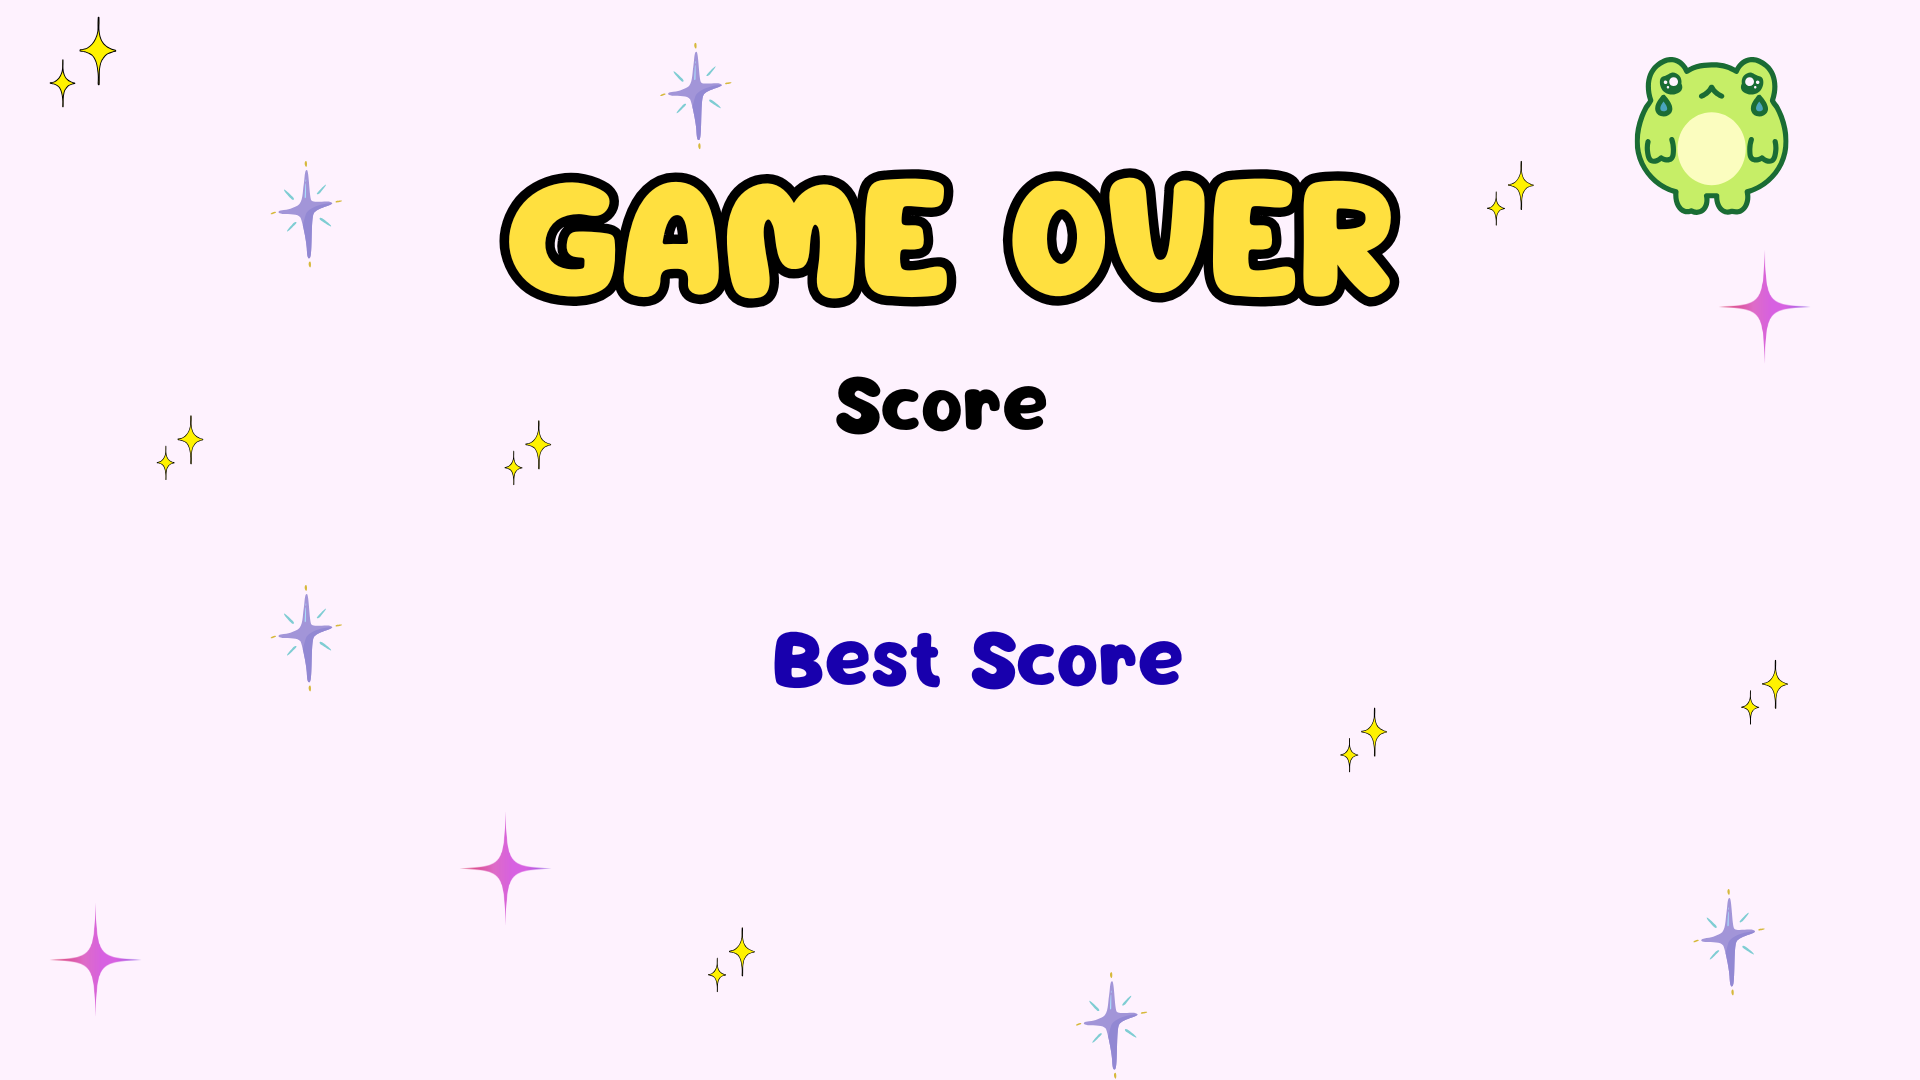
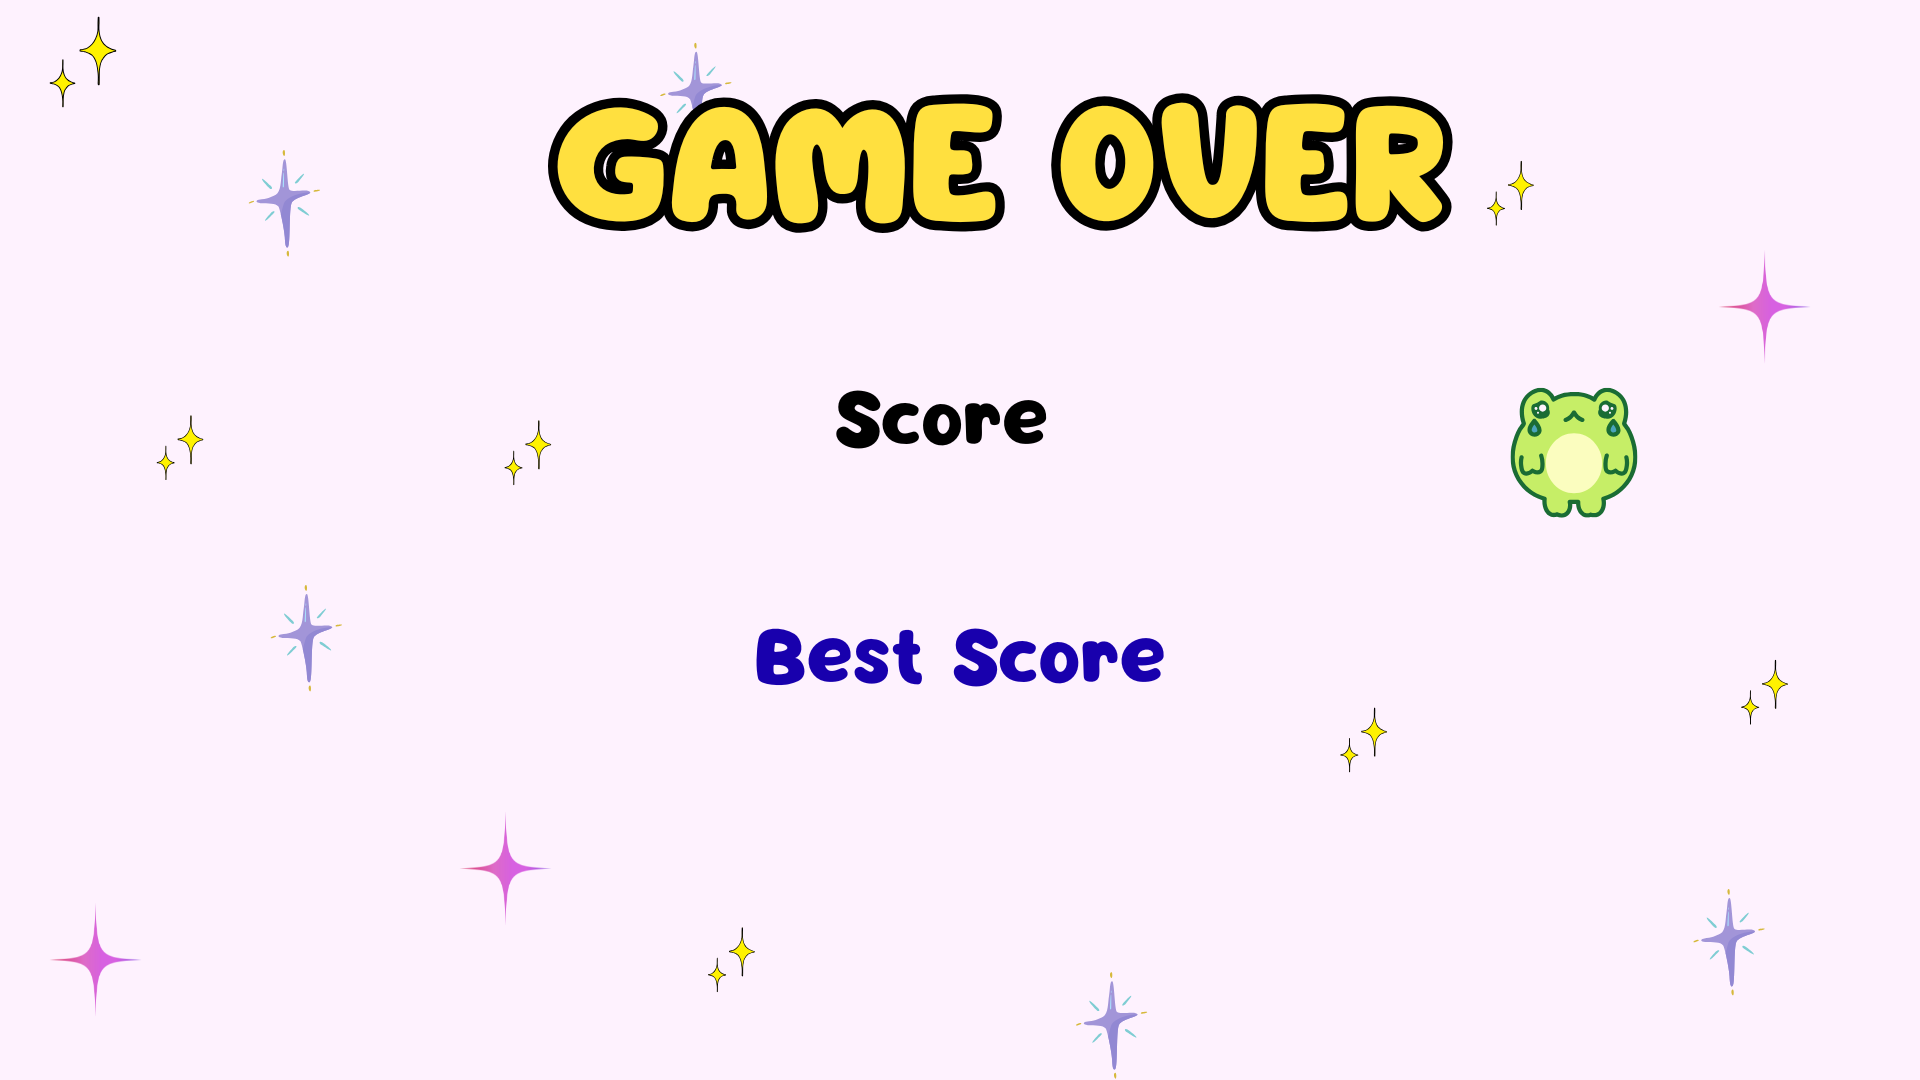
Fix hiển thị sao, chỉnh lại best score

diff --git a/src/screens/gameplay_screen.py b/src/screens/gameplay_screen.py
@@ -307,7 +307,7 @@ class GameplayScreen(BaseScreen):
             assets['nut_next'] = pygame.image.load(os.path.join(ASSETS_IMG_DIR, 'nut_next.png')).convert_alpha()
             assets['nut_next'] = pygame.transform.scale(assets['nut_next'], self.NEXT_BUTTON_SIZE)
             
-            star_img = pygame.image.load(os.path.join(ASSETS_IMG_DIR, 'sao.png')).convert_alpha() 
+            star_img = pygame.image.load(os.path.join(ASSETS_IMG_DIR, 'sao_ketthuc.png')).convert_alpha() 
             assets['sao_large'] = pygame.transform.scale(star_img, (self.STAR_SIZE, self.STAR_SIZE))
             assets['sao_result'] = pygame.transform.scale(star_img, (80, 80))
 
@@ -372,6 +372,7 @@ class GameplayScreen(BaseScreen):
             self.game_manager.question_index += 1
         else:
             self.game_over = True
+            self.best_score = self.score
             self.final_stars = self.calculate_stars(self.score)
             self.save_score(self.score)
 
@@ -625,7 +626,7 @@ class GameplayScreen(BaseScreen):
             res_img = None
             if self.is_perfect: res_img = self.assets['img_perfect']
             elif self.is_new_best: res_img = self.assets['img_new_best']
-            
+
             if res_img:
                 target_center_y = go_rect.centery
                 res_rect = res_img.get_rect(center=(SCREEN_WIDTH//2, target_center_y))
@@ -634,14 +635,18 @@ class GameplayScreen(BaseScreen):
             score_txt = self.font_title.render(f"{self.score}", True, (255, 0, 0))
             surface.blit(score_txt, score_txt.get_rect(center=(SCREEN_WIDTH//2, go_rect.centery)))
             
-            star_base_x = SCREEN_WIDTH // 2 - 90 
-            for i in range(1, 4):
-                single_star = self.assets['sao_result'].copy()
-                if i > self.final_stars:
-                    gray_filter = pygame.Surface(single_star.get_size(), pygame.SRCALPHA)
-                    gray_filter.fill((40, 40, 40, 190)) 
-                    single_star.blit(gray_filter, (0, 0), special_flags=pygame.BLEND_RGBA_MULT)
-                surface.blit(single_star, (star_base_x + (i-1)*90 - 40, go_rect.centery + 80))
+            best_score_txt = self.font_title.render(f"{self.best_score}", True, (55, 55, 55))
+            surface.blit(best_score_txt, best_score_txt.get_rect(center=(SCREEN_WIDTH//2, go_rect.centery + 130)))
+
+            if not self.is_perfect or not self.is_new_best:
+                star_base_x = SCREEN_WIDTH // 2 - 90 
+                for i in range(1, 4):
+                    single_star = self.assets['sao_result'].copy()
+                    if i > self.final_stars:
+                        gray_filter = pygame.Surface(single_star.get_size(), pygame.SRCALPHA)
+                        gray_filter.fill((40, 40, 40, 190)) 
+                        single_star.blit(gray_filter, (0, 0), special_flags=pygame.BLEND_RGBA_MULT)
+                    surface.blit(single_star, (star_base_x + (i-1)*90 - 40, go_rect.centery - 170))
 
             spacing = 50 
             total_width = self.NEXT_BUTTON_SIZE[0] + spacing + self.REPLAY_BUTTON_SIZE[0]
